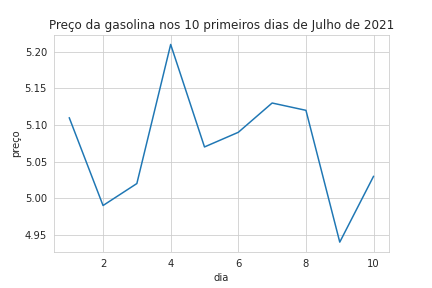
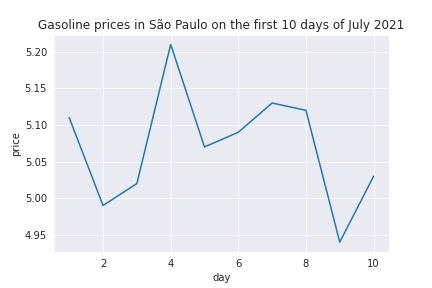
arquivos gasolina.png e gasolina.py alterados

diff --git a/gasolina.py b/gasolina.py
@@ -4,7 +4,7 @@ import matplotlib.pyplot as plt
 
 gasolina_df = pd.read_csv('gasolina.csv', sep=',')
 
-with sns.axes_style('whitegrid'):
+with sns.axes_style('darkgrid'):
   grafico_gasolina = sns.lineplot(data=gasolina_df, x='dia', y='venda')
-  grafico_gasolina.set(title='Preço da gasolina nos 10 primeiros dias de Julho de 2021', xlabel='dia', ylabel='preço')
+  grafico_gasolina.set(title='Gasoline prices in São Paulo on the first 10 days of July 2021', xlabel='day', ylabel='price')
   plt.savefig('gasolina.png')
